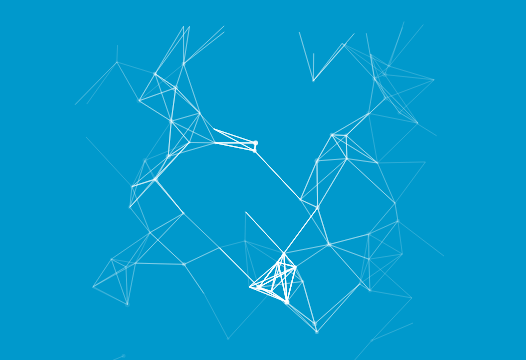
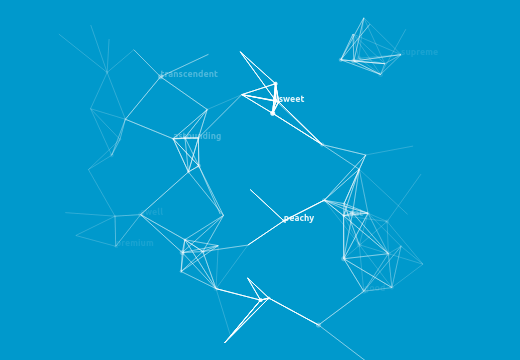
Added tags version (1.1.0)

diff --git a/stellarSpider.min.js b/stellarSpider.min.js
@@ -1,8 +1,9 @@
+
 /*!
- * Stellar spider v1.0.0
+ * Stellar spider v1.1.0
  * Stellar spider is canvas decoration for your website
  * Author JkmAS Mejstrik
  * Website jkmas.cz
  * Licensed under MIT (https://github.com/JkmAS/stellar-spider/blob/master/LICENSE)
  */
-var canvas=document.getElementById("stellarSpider");var ctx=canvas.getContext("2d");var POINTS_QUANTITY=MOVE_TIME=500;var DIFFERENCE=50;var points=[];var cursor={x:null,y:null};function generatePointsCoordinates(){for(var b=0;b<POINTS_QUANTITY;b++){var d=Math.random()*canvas.width;var c=Math.random()*canvas.height;var a={x:d,y:c,sizePoint:Math.floor((Math.random()*3)+1),moveToPoint:Math.floor((Math.random()*POINTS_QUANTITY)+0),moveTime:b};points.push(a)}}function generatePoints(){for(var a=0;a<points.length;a++){points[a].transparency=getTransparency(points[a]);drawPoint(points[a].x,points[a].y,points[a].sizePoint,points[a].transparency);generateLines(points[a])}}function generateLines(a){var b=0;for(var e=0;e<points.length;e++){var d=getDistance(a,points[e]);if(d[0]<DIFFERENCE&&d[1]<DIFFERENCE&&d[0]>-DIFFERENCE&&d[1]>-DIFFERENCE&&b<=5){drawLine(a,points[e],a.transparency);b++}}}function movePoints(){for(var a=0;a<POINTS_QUANTITY;a++){var b=getDistance(points[a],points[points[a].moveToPoint]);points[a].moveTime++;if(b[0]>0){points[a].x=points[a].x-0.5}else{points[a].x=points[a].x+0.5}if(b[1]>0){points[a].y=points[a].y-0.5}else{points[a].y=points[a].y+0.5}if(points[a].moveTime>MOVE_TIME){points[a].x=Math.random()*canvas.width;points[a].y=Math.random()*canvas.height;points[a].moveTime=a}}}function getDistance(a,b){distanceX=a.x-b.x;distanceY=a.y-b.y;return[distanceX,distanceY]}function setCursorPosition(a){cursor.x=a.pageX;cursor.y=a.pageY}function getTransparency(a){var b=150;var c=getDistance(a,cursor);if(c[0]<150&&c[1]<150&&c[0]>-150&&c[1]>-150){if((c[0]<=150&&c[0]>100)||(c[0]>=-150&&c[0]<-100)){return"0.1"}else{if((c[0]<=100&&c[0]>50)||(c[0]>=-100&&c[0]<-50)){return"0.3"}else{if((c[0]<=50&&c[0]>=0)||(c[0]>=-50&&c[0]>=0)){return"0.9"}}}}else{return"0"}}function drawPoint(a,d,c,b){ctx.beginPath();ctx.arc(a,d,1,0,2*Math.PI,false);ctx.lineWidth=c;ctx.strokeStyle="rgba(255,255,255,"+b+")";ctx.closePath();ctx.stroke()}function drawLine(c,a,b){ctx.beginPath();ctx.moveTo(c.x,c.y);ctx.lineTo(a.x,a.y);ctx.lineWidth=1;ctx.strokeStyle="rgba(255,255,255,"+b+")";ctx.closePath();ctx.stroke()}var w=window;var requestAnimationFrame=w.requestAnimationFrame||w.webkitRequestAnimationFrame||w.msRequestAnimationFrame||w.mozRequestAnimationFrame;function main(){ctx.clearRect(0,0,canvas.width,canvas.height);generatePoints();movePoints();requestAnimationFrame(main)}window.addEventListener("mousemove",setCursorPosition);generatePointsCoordinates();main();
+var POINTS_QUANTITY=MOVE_TIME=500;var DIFFERENCE=50;var canvas=document.getElementById("stellarSpider");var ctx=canvas.getContext("2d");var points=[];var cursor={x:null,y:null};var tags=null;function generatePointsCoordinates(){for(var b=0;b<POINTS_QUANTITY;b++){var d=Math.random()*canvas.width;var c=Math.random()*canvas.height;var a={x:d,y:c,sizePoint:Math.floor((Math.random()*3)+1),moveToPoint:Math.floor((Math.random()*POINTS_QUANTITY)+0),moveTime:b,tag:((typeof tags!=="undefined"&&tags!=null)?tags[b]:null)};points.push(a)}}function generatePoints(){for(var a=0;a<points.length;a++){points[a].transparency=getTransparency(points[a]);drawPoint(points[a].x,points[a].y,points[a].sizePoint,points[a].transparency);generateLines(points[a]);generateTags(points[a])}}function generateLines(a){var b=0;for(var e=0;e<points.length;e++){var d=getDistance(a,points[e]);if(d[0]<DIFFERENCE&&d[1]<DIFFERENCE&&d[0]>-DIFFERENCE&&d[1]>-DIFFERENCE&&b<=5){drawLine(a,points[e],a.transparency);b++}}}function generateTags(a){if(a.tag!=null){drawTag(a.x,a.y,a.tag,a.transparency)}}function movePoints(){for(var a=0;a<POINTS_QUANTITY;a++){var b=getDistance(points[a],points[points[a].moveToPoint]);points[a].moveTime++;if(b[0]>0){points[a].x=points[a].x-0.5}else{points[a].x=points[a].x+0.5}if(b[1]>0){points[a].y=points[a].y-0.5}else{points[a].y=points[a].y+0.5}if(points[a].moveTime>MOVE_TIME){points[a].x=Math.random()*canvas.width;points[a].y=Math.random()*canvas.height;points[a].moveTime=a}}}function getDistance(a,b){distanceX=a.x-b.x;distanceY=a.y-b.y;return[distanceX,distanceY]}function setCursorPosition(a){cursor.x=a.pageX;cursor.y=a.pageY}function getTransparency(a){var b=150;var c=getDistance(a,cursor);if(c[0]<150&&c[1]<150&&c[0]>-150&&c[1]>-150){if((c[0]<=150&&c[0]>100)||(c[0]>=-150&&c[0]<-100)){return"0.1"}else{if((c[0]<=100&&c[0]>50)||(c[0]>=-100&&c[0]<-50)){return"0.3"}else{if((c[0]<=50&&c[0]>=0)||(c[0]>=-50&&c[0]>=0)){return"0.9"}}}}else{return"0"}}function drawPoint(a,d,c,b){ctx.beginPath();ctx.arc(a,d,1,0,2*Math.PI,false);ctx.lineWidth=c;ctx.strokeStyle="rgba(255,255,255,"+b+")";ctx.closePath();ctx.stroke()}function drawLine(c,a,b){ctx.beginPath();ctx.moveTo(c.x,c.y);ctx.lineTo(a.x,a.y);ctx.lineWidth=1;ctx.strokeStyle="rgba(255,255,255,"+b+")";ctx.closePath();ctx.stroke()}function drawTag(a,d,c,b){ctx.font="bold 9px Ubuntu";ctx.fillStyle="rgba(255,255,255,"+b+")";ctx.fillText(c,a,d)}var w=window;var requestAnimationFrame=w.requestAnimationFrame||w.webkitRequestAnimationFrame||w.msRequestAnimationFrame||w.mozRequestAnimationFrame;function main(){ctx.clearRect(0,0,canvas.width,canvas.height);generatePoints();movePoints();requestAnimationFrame(main)}window.addEventListener("mousemove",setCursorPosition);generatePointsCoordinates();main();

diff --git a/stellarSpider.js b/stellarSpider.js
@@ -1,13 +1,10 @@
 /*!
- * Stellar spider v1.0.0
+ * Stellar spider v1.1.0
  * Stellar spider is canvas decoration for your website
  * Author JkmAS Mejstrik
  * Website jkmas.cz
  * Licensed under MIT (https://github.com/JkmAS/stellar-spider/blob/master/LICENSE)
  */
- 
-var canvas = document.getElementById('stellarSpider');
-var ctx = canvas.getContext('2d');
 
 /*
  * =====================================================================
@@ -15,7 +12,7 @@ var ctx = canvas.getContext('2d');
  * =====================================================================
  */ 
  
-//quantity of points and time to change position of point 
+//quantity of points and time to change position of point
 var POINTS_QUANTITY = MOVE_TIME = 500;
 //difference between distance of two points
 var DIFFERENCE = 50;
@@ -25,12 +22,15 @@ var DIFFERENCE = 50;
  * Variables
  * =====================================================================
  */ 
+var canvas = document.getElementById('stellarSpider');
+var ctx = canvas.getContext('2d'); 
 var points = [];
 var cursor = {
 	x: null,
 	y: null
 };
-
+//to disable texts set tags to null;
+var tags = null;
 /*
  * =====================================================================
  * Logic
@@ -50,7 +50,9 @@ function generatePointsCoordinates(){
 			//determining the direction
 			moveToPoint: Math.floor((Math.random() * POINTS_QUANTITY) + 0),
 			//time to change of position 
-			moveTime: i
+			moveTime: i,
+			//text tag for point
+			tag: ((typeof tags !== 'undefined' && tags != null) ? tags[i] : null)
 		};
 		points.push(point);
 	}
@@ -64,6 +66,7 @@ function generatePoints(){
 	
 		drawPoint(points[p].x, points[p].y, points[p].sizePoint, points[p].transparency);
 		generateLines(points[p]);
+		generateTags(points[p]);
 	}
 }
 
@@ -83,6 +86,14 @@ function generateLines(point){
 			//increase max
 			lines++;		
 		} 
+	}
+}
+
+//generate tags
+function generateTags(point){
+	//check if tag is set
+	if (point.tag != null) {
+		drawTag(point.x, point.y, point.tag, point.transparency);
 	}
 }
 
@@ -157,6 +168,7 @@ function getTransparency(point){
 		return "0";
 	}
 }
+
 /*
  * =====================================================================
  * Drawing functions 
@@ -182,6 +194,13 @@ function drawLine(pointFrom, pointTo, transparency){
 	ctx.strokeStyle = "rgba(255,255,255,"+transparency+")";	
 	ctx.closePath();
 	ctx.stroke();	
+}
+
+//draw text
+function drawTag(x, y, text, transparency){
+	ctx.font = "bold 9px Ubuntu";
+	ctx.fillStyle = "rgba(255,255,255,"+transparency+")";
+	ctx.fillText(text,x,y);
 }
 
 /*

diff --git a/tagsExample.js b/tagsExample.js
@@ -1,0 +1,92 @@
+var tagsExample = ["ace",
+			"amazing",
+			"astonishing",
+			"astounding",
+			"awe-inspiring",
+			"awesome",
+			"badass",
+			"beautiful",
+			"best",
+			"breathtaking",
+			"brilliant",
+			"cat's meow",
+			"classy",
+			"cool",
+			"dazzling",
+			"delightful",
+			"divine",
+			"epic",
+			"excellent",
+			"exceptional",
+			"exquisite",
+			"extraordinary",
+			"fabulous",
+			"fantastic",
+			"fine",
+			"finest",
+			"first-class",
+			"first-rate",
+			"flawless",
+			"geometric",
+			"glorious",
+			"gnarly",
+			"good",
+			"great",
+			"groovy",
+			"groundbreaking",
+			"hunky-dory",
+			"impeccable",
+			"impressive",
+			"incredible",
+			"laudable",
+			"legendary",
+			"lovely",
+			"luminous",
+			"magnificent",
+			"majestic",
+			"marvelous",
+			"mathematical",
+			"mind-blowing",
+			"neat",
+			"outstanding",
+			"peachy",
+			"perfect",
+			"phenomenal",
+			"pioneering",
+			"polished",
+			"praiseworthy",
+			"premium",
+			"priceless",
+			"remarkable",
+			"riveting",
+			"sensational",
+			"shining",
+			"smashing",
+			"solid",
+			"spectacular",
+			"splendid",
+			"stellar",
+			"striking",
+			"stunning",
+			"stupendous",
+			"stylish",
+			"sublime",
+			"super",
+			"super-duper",
+			"super-excellent",
+			"superior",
+			"supreme",
+			"sweet",
+			"swell",
+			"terrific",
+			"top-notch",
+			"transcendent",
+			"tremendous",
+			"ultimate",
+			"unreal",
+			"well-made",
+			"wicked",
+			"wonderful",
+			"wondrous",
+			"world-class"
+]

diff --git a/index.html b/index.html
@@ -14,6 +14,7 @@
 			Upps, your browser does not support the HTML5 canvas tag :(.
 		</canvas>
 		<!-- JavaScript -->
+		<script src="tagsExample.js"></script>
 		<script src="stellarSpider.min.js"></script>
 	</body>
 </html>

diff --git a/README.md b/README.md
@@ -7,10 +7,13 @@ Stellar spider
 About
 -----
 Stellar spider is HTML5 canvas decoration for your website. Include `stellarSpider.min.js` code into your web 
-and add tag `<canvas>` with id `stellarSpider`. [Check example](http://jkmas.github.io/stellar-spider).
+and add tag `<canvas>` with id `stellarSpider`. For displaying the tags you have to 
+assign variable `tags` to the array with tags at the beginning of the script stellarSpider.
+[Check example](http://jkmas.github.io/stellar-spider).
 
 Version
 ------
+  * 1.1.0 - tags	
   * 1.0.0 - initial release
 
 Author
